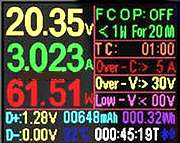
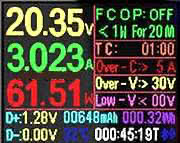
Update README and reduce images

diff --git a/readme.md b/readme.md
@@ -1,6 +1,9 @@
-This low price device (13.88 €) is more than just a digital USB tester. See ATORCH UD18: 
-- Aliexpress: [https://it.aliexpress.com/item/4000001021645.html](https://it.aliexpress.com/item/4000001021645.html)
-- Banggood: [https://www.banggood.com/UD18-USB3_0DCType-C-18-in-1-USB-Tester-APP-DC-Digital-Voltmeter-Ammeter-HD-Color-Screen-6-Bit-High-Precision-Display-UD18-Bluetooth-Digital-Meter-p-1564949.html](https://www.banggood.com/UD18-USB3_0DCType-C-18-in-1-USB-Tester-APP-DC-Digital-Voltmeter-Ammeter-HD-Color-Screen-6-Bit-High-Precision-Display-UD18-Bluetooth-Digital-Meter-p-1564949.html) 
+# UD18 protocol and node-red
+
+This low price device (13.88 EUR) is more than just a digital USB tester. See ATORCH UD18:
+
+- Aliexpress: <https://it.aliexpress.com/item/4000001021645.html>
+- Banggood: <https://banggood.app.link/BbTma8WFL6>
 
 ![UD18 photo ](images/fig001.jpg)
 
@@ -21,13 +24,13 @@ Furthermore:
 
 UD18 as also the optional capability to cut off the charge (FCOP) when some trigger conditions are meets.
 
-UD18 can communicate via Bluetooth and two applications can be downloaded, one for WIN-PC and another App for smartphone (Android and iPhone). 
+UD18 can communicate via Bluetooth and two applications can be downloaded, one for Windows PC and another App for smartphone (Android and iPhone).
 
 ![The UD18 test flow](images/2020-03-01.161247.shot.png)
 
 To use UD18 in **node-red** custom integrate projects we need:
 
-- the *communication protocol* used by the device (see **UD18_protocol.txt**)
-- **node-red** nodes to *code+send* commands and *receive+decode* data (see **UD18flow.json**).
+- the _communication protocol_ used by the device (see [UD18_protocol.txt](UD18_protocol.txt))
+- [node-red](https://nodered.org) nodes to _code+send_ commands and _receive+decode_ data (see [UD18flow.json](UD18flow.json)).
 
-For the full story see **UD18_01_en.pdf** (in italiano: **UD18_01_it.pdf**).
+For the full story see [UD18_01_en.pdf](UD18_01_en.pdf) (in italiano: [UD18_01_it.pdf](UD18_01_en.pdf)).
